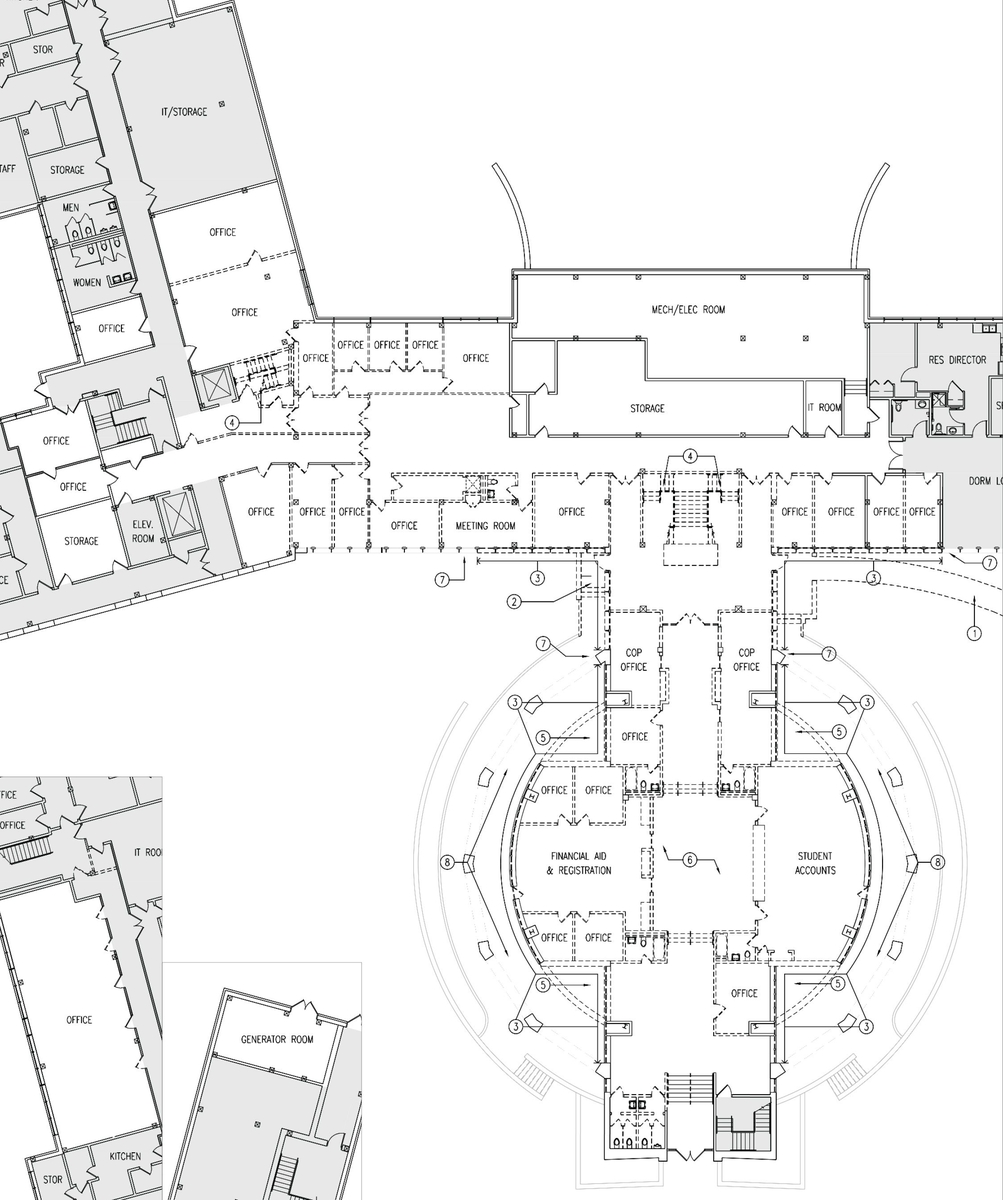
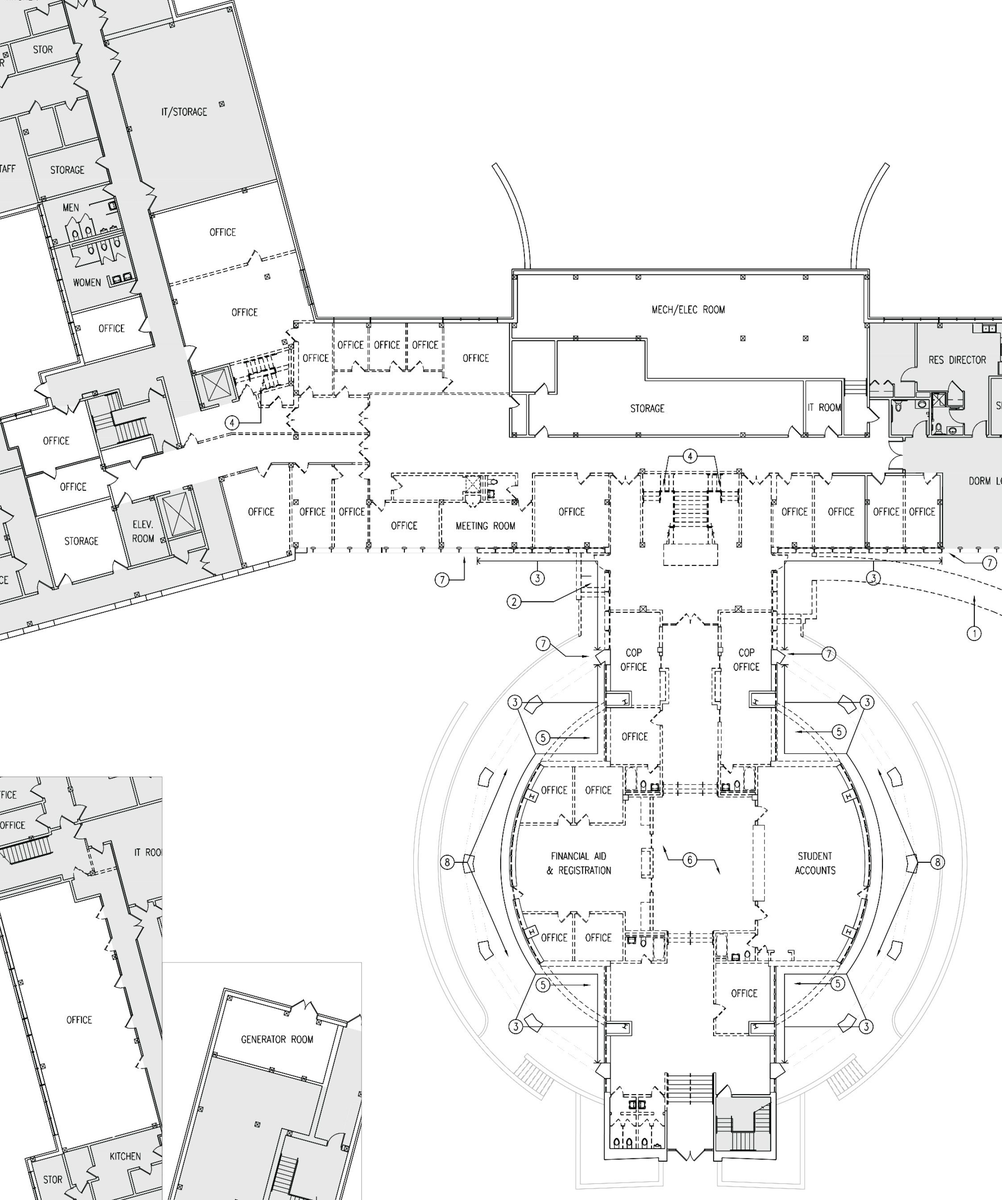
Deering Estate and Ramp & Reel: populate images; Mercy University: three updated drawings.

diff --git a/index.html b/index.html
@@ -369,6 +369,105 @@
                     <p class="slide__desc">[ADD: description of this image]</p>
                   </figcaption>
                 </figure>
+                <figure class="slide">
+                  <div class="slide__media" style="aspect-ratio: 2400 / 1350">
+                    <img class="slide__img" data-src="images/de/web/de-08-gallery-render.jpg" alt="Deering Estate gallery render: visitors among display cases in a timber-framed room with glass walls" width="2400" height="1350" draggable="false">
+                  </div>
+                  <figcaption class="slide__text">
+                    <p class="slide__title">Gallery Render</p>
+                    <p class="slide__desc">[ADD: description of this image]</p>
+                  </figcaption>
+                </figure>
+                <figure class="slide">
+                  <div class="slide__media" style="aspect-ratio: 1800 / 1532">
+                    <img class="slide__img" data-src="images/de/web/de-09-existing-sp.jpg" alt="Deering Estate existing site plan: buildings and paths among trees, with the shoreline and water to the east" width="1800" height="1532" draggable="false">
+                  </div>
+                  <figcaption class="slide__text">
+                    <p class="slide__title">Existing Site Plan</p>
+                    <p class="slide__desc">[ADD: description of this image]</p>
+                  </figcaption>
+                </figure>
+                <figure class="slide">
+                  <div class="slide__media" style="aspect-ratio: 1800 / 1012">
+                    <img class="slide__img" data-src="images/de/web/de-10-exterior-render.jpg" alt="Deering Estate exterior render: low timber buildings around a gravel court shaded by large trees" width="1800" height="1012" draggable="false">
+                  </div>
+                  <figcaption class="slide__text">
+                    <p class="slide__title">Exterior Render</p>
+                    <p class="slide__desc">[ADD: description of this image]</p>
+                  </figcaption>
+                </figure>
+                <figure class="slide">
+                  <div class="slide__media" style="aspect-ratio: 1800 / 1012">
+                    <img class="slide__img" data-src="images/de/web/de-11-exterior-render2.jpg" alt="Deering Estate second exterior render: students crossing the court between the buildings, seen from a porch" width="1800" height="1012" draggable="false">
+                  </div>
+                  <figcaption class="slide__text">
+                    <p class="slide__title">Exterior Render 2</p>
+                    <p class="slide__desc">[ADD: description of this image]</p>
+                  </figcaption>
+                </figure>
+                <figure class="slide">
+                  <div class="slide__media" style="aspect-ratio: 2800 / 1116">
+                    <img class="slide__img" data-src="images/de/web/de-12-gallery-wall-section.jpg" alt="Deering Estate gallery wall section, with a part elevation beside it and the materials labelled" width="2800" height="1116" draggable="false">
+                  </div>
+                  <figcaption class="slide__text">
+                    <p class="slide__title">Gallery Wall Section</p>
+                    <p class="slide__desc">[ADD: description of this image]</p>
+                  </figcaption>
+                </figure>
+                <figure class="slide">
+                  <div class="slide__media" style="aspect-ratio: 2800 / 1313">
+                    <img class="slide__img" data-src="images/de/web/de-13-offices-wall-section.jpg" alt="Deering Estate offices wall section, with a part elevation beside it and the materials labelled" width="2800" height="1313" draggable="false">
+                  </div>
+                  <figcaption class="slide__text">
+                    <p class="slide__title">Offices Wall Section</p>
+                    <p class="slide__desc">[ADD: description of this image]</p>
+                  </figcaption>
+                </figure>
+                <figure class="slide">
+                  <div class="slide__media" style="aspect-ratio: 2800 / 1081">
+                    <img class="slide__img" data-src="images/de/web/de-14-lab-wall-section.jpg" alt="Deering Estate demonstration laboratory wall section, with a part elevation beside it and the materials labelled" width="2800" height="1081" draggable="false">
+                  </div>
+                  <figcaption class="slide__text">
+                    <p class="slide__title">Lab Wall Section</p>
+                    <p class="slide__desc">[ADD: description of this image]</p>
+                  </figcaption>
+                </figure>
+                <figure class="slide">
+                  <div class="slide__media" style="aspect-ratio: 2800 / 1754">
+                    <img class="slide__img" data-src="images/de/web/de-15-floor-plan.jpg" alt="Deering Estate floor plan: the new buildings set among trees beside the existing houses, with a legend" width="2800" height="1754" draggable="false">
+                  </div>
+                  <figcaption class="slide__text">
+                    <p class="slide__title">Floor Plan</p>
+                    <p class="slide__desc">[ADD: description of this image]</p>
+                  </figcaption>
+                </figure>
+                <figure class="slide">
+                  <div class="slide__media" style="aspect-ratio: 2800 / 1875">
+                    <img class="slide__img" data-src="images/de/web/de-16-spaces-diagram.jpg" alt="Deering Estate spaces diagram: the buildings as coloured blocks, with the gathering spaces between them in blue" width="2800" height="1875" draggable="false">
+                  </div>
+                  <figcaption class="slide__text">
+                    <p class="slide__title">Spaces Diagram</p>
+                    <p class="slide__desc">[ADD: description of this image]</p>
+                  </figcaption>
+                </figure>
+                <figure class="slide">
+                  <div class="slide__media" style="aspect-ratio: 2800 / 1868">
+                    <img class="slide__img" data-src="images/de/web/de-17-circulation-diagram.jpg" alt="Deering Estate circulation diagram: the buildings as coloured blocks, with the routes between them in red" width="2800" height="1868" draggable="false">
+                  </div>
+                  <figcaption class="slide__text">
+                    <p class="slide__title">Circulation Diagram</p>
+                    <p class="slide__desc">[ADD: description of this image]</p>
+                  </figcaption>
+                </figure>
+                <figure class="slide">
+                  <div class="slide__media" style="aspect-ratio: 2800 / 1869">
+                    <img class="slide__img" data-src="images/de/web/de-18-program-diagram.jpg" alt="Deering Estate program diagram: each building as a block coloured by its use, with a key" width="2800" height="1869" draggable="false">
+                  </div>
+                  <figcaption class="slide__text">
+                    <p class="slide__title">Program Diagram</p>
+                    <p class="slide__desc">[ADD: description of this image]</p>
+                  </figcaption>
+                </figure>
               </div>
             </div>
           </div>
@@ -385,29 +484,137 @@
             <div class="viewer__inner">
               <div class="viewer__slides" role="group" aria-label="Images of Ramp &amp; Reel Fishing Market" tabindex="0">
                 <figure class="slide">
-                  <div class="slide__media" style="aspect-ratio: 4 / 3">
-                    <div class="slide__img placeholder" role="img" aria-label="Placeholder for an image of Ramp &amp; Reel Fishing Market">[ADD: image of Ramp &amp; Reel Fishing Market]</div>
+                  <div class="slide__media" style="aspect-ratio: 2757 / 2782">
+                    <img class="slide__img" data-src="images/rr/web/rr-01-vender-diagram.jpg" alt="Ramp and Reel vendor diagram: six steps showing a long slab divided, cut and fitted with stalls" width="2757" height="2782" draggable="false">
                   </div>
                   <figcaption class="slide__text">
-                    <p class="slide__title">[ADD: title]</p>
+                    <p class="slide__title">Vendor Diagram</p>
                     <p class="slide__desc">[ADD: description of this image]</p>
                   </figcaption>
                 </figure>
                 <figure class="slide">
-                  <div class="slide__media" style="aspect-ratio: 4 / 3">
-                    <div class="slide__img placeholder" role="img" aria-label="Placeholder for an image of Ramp &amp; Reel Fishing Market">[ADD: image of Ramp &amp; Reel Fishing Market]</div>
+                  <div class="slide__media" style="aspect-ratio: 2400 / 1445">
+                    <img class="slide__img" data-src="images/rr/web/rr-02-roof-render.jpg" alt="Ramp and Reel roof render: a planted roof garden with a winding path at sunset, the city behind" width="2400" height="1445" draggable="false">
                   </div>
                   <figcaption class="slide__text">
-                    <p class="slide__title">[ADD: title]</p>
+                    <p class="slide__title">Roof Render</p>
                     <p class="slide__desc">[ADD: description of this image]</p>
                   </figcaption>
                 </figure>
                 <figure class="slide">
-                  <div class="slide__media" style="aspect-ratio: 4 / 3">
-                    <div class="slide__img placeholder" role="img" aria-label="Placeholder for an image of Ramp &amp; Reel Fishing Market">[ADD: image of Ramp &amp; Reel Fishing Market]</div>
+                  <div class="slide__media" style="aspect-ratio: 2800 / 918">
+                    <img class="slide__img" data-src="images/rr/web/rr-03-longitudinal-section.jpg" alt="Ramp and Reel longitudinal section: the long, low market on the river with the city skyline drawn behind" width="2800" height="918" draggable="false">
                   </div>
                   <figcaption class="slide__text">
-                    <p class="slide__title">[ADD: title]</p>
+                    <p class="slide__title">Longitudinal Section</p>
+                    <p class="slide__desc">[ADD: description of this image]</p>
+                  </figcaption>
+                </figure>
+                <figure class="slide">
+                  <div class="slide__media" style="aspect-ratio: 2800 / 1729">
+                    <img class="slide__img" data-src="images/rr/web/rr-04-cross-section.jpg" alt="Ramp and Reel cross section: the market at the edge of the river, with a planted roof above and the water beside it" width="2800" height="1729" draggable="false">
+                  </div>
+                  <figcaption class="slide__text">
+                    <p class="slide__title">Cross Section</p>
+                    <p class="slide__desc">[ADD: description of this image]</p>
+                  </figcaption>
+                </figure>
+                <figure class="slide">
+                  <div class="slide__media" style="aspect-ratio: 2800 / 915">
+                    <img class="slide__img" data-src="images/rr/web/rr-05-east-elevation.jpg" alt="Ramp and Reel east elevation: the market along the river with the city skyline drawn behind" width="2800" height="915" draggable="false">
+                  </div>
+                  <figcaption class="slide__text">
+                    <p class="slide__title">East Elevation</p>
+                    <p class="slide__desc">[ADD: description of this image]</p>
+                  </figcaption>
+                </figure>
+                <figure class="slide">
+                  <div class="slide__media" style="aspect-ratio: 2800 / 1547">
+                    <img class="slide__img" data-src="images/rr/web/rr-06-first-floor-plan.jpg" alt="Ramp and Reel first floor plan, on the Miami River beside NW North River Drive" width="2800" height="1547" draggable="false">
+                  </div>
+                  <figcaption class="slide__text">
+                    <p class="slide__title">First Floor Plan</p>
+                    <p class="slide__desc">[ADD: description of this image]</p>
+                  </figcaption>
+                </figure>
+                <figure class="slide">
+                  <div class="slide__media" style="aspect-ratio: 2800 / 1548">
+                    <img class="slide__img" data-src="images/rr/web/rr-07-second-floor-plan.jpg" alt="Ramp and Reel second floor plan, on the Miami River beside NW North River Drive" width="2800" height="1548" draggable="false">
+                  </div>
+                  <figcaption class="slide__text">
+                    <p class="slide__title">Second Floor Plan</p>
+                    <p class="slide__desc">[ADD: description of this image]</p>
+                  </figcaption>
+                </figure>
+                <figure class="slide">
+                  <div class="slide__media" style="aspect-ratio: 2800 / 1547">
+                    <img class="slide__img" data-src="images/rr/web/rr-08-third-floor-plan.jpg" alt="Ramp and Reel third floor plan, on the Miami River beside NW North River Drive" width="2800" height="1547" draggable="false">
+                  </div>
+                  <figcaption class="slide__text">
+                    <p class="slide__title">Third Floor Plan</p>
+                    <p class="slide__desc">[ADD: description of this image]</p>
+                  </figcaption>
+                </figure>
+                <figure class="slide">
+                  <div class="slide__media" style="aspect-ratio: 2000 / 1119">
+                    <img class="slide__img" data-src="images/rr/web/rr-09-vender-render.jpg" alt="Ramp and Reel vendor render: timber market stalls and climbing plants under the roof" width="2000" height="1119" draggable="false">
+                  </div>
+                  <figcaption class="slide__text">
+                    <p class="slide__title">Vendor Render</p>
+                    <p class="slide__desc">[ADD: description of this image]</p>
+                  </figcaption>
+                </figure>
+                <figure class="slide">
+                  <div class="slide__media" style="aspect-ratio: 2622 / 1108">
+                    <img class="slide__img" data-src="images/rr/web/rr-10-p-section-collage.jpg" alt="Ramp and Reel section perspective collage: a line drawing looking down the length of the market, between a park and the water" width="2622" height="1108" draggable="false">
+                  </div>
+                  <figcaption class="slide__text">
+                    <p class="slide__title">Section Perspective Collage</p>
+                    <p class="slide__desc">[ADD: description of this image]</p>
+                  </figcaption>
+                </figure>
+                <figure class="slide">
+                  <div class="slide__media" style="aspect-ratio: 2688 / 1808">
+                    <img class="slide__img" data-src="images/rr/web/rr-11-exterior-render.jpg" alt="Ramp and Reel exterior render: the market and its ramp seen from a boat on the river" width="2688" height="1808" draggable="false">
+                  </div>
+                  <figcaption class="slide__text">
+                    <p class="slide__title">Exterior Render</p>
+                    <p class="slide__desc">[ADD: description of this image]</p>
+                  </figcaption>
+                </figure>
+                <figure class="slide">
+                  <div class="slide__media" style="aspect-ratio: 2077 / 1735">
+                    <img class="slide__img" data-src="images/rr/web/rr-12-transect.jpg" alt="Ramp and Reel transect: a cut-away showing the public park, the green roof and the Miami River" width="2077" height="1735" draggable="false">
+                  </div>
+                  <figcaption class="slide__text">
+                    <p class="slide__title">Transect</p>
+                    <p class="slide__desc">[ADD: description of this image]</p>
+                  </figcaption>
+                </figure>
+                <figure class="slide">
+                  <div class="slide__media" style="aspect-ratio: 2800 / 1701">
+                    <img class="slide__img" data-src="images/rr/web/rr-13-building-diagram.jpg" alt="Ramp and Reel building diagram: four steps showing the long sloping form being shaped" width="2800" height="1701" draggable="false">
+                  </div>
+                  <figcaption class="slide__text">
+                    <p class="slide__title">Building Diagram</p>
+                    <p class="slide__desc">[ADD: description of this image]</p>
+                  </figcaption>
+                </figure>
+                <figure class="slide">
+                  <div class="slide__media" style="aspect-ratio: 1600 / 1200">
+                    <img class="slide__img" data-src="images/rr/web/rr-14-existing-site.jpg" alt="The existing site from the air: the Miami River, a drawbridge and boats" width="1600" height="1200" draggable="false">
+                  </div>
+                  <figcaption class="slide__text">
+                    <p class="slide__title">Existing Site</p>
+                    <p class="slide__desc">[ADD: description of this image]</p>
+                  </figcaption>
+                </figure>
+                <figure class="slide">
+                  <div class="slide__media" style="aspect-ratio: 1600 / 1200">
+                    <img class="slide__img" data-src="images/rr/web/rr-15-existing-site2.jpg" alt="The existing site from the air: fishing boats tied up at a working dock" width="1600" height="1200" draggable="false">
+                  </div>
+                  <figcaption class="slide__text">
+                    <p class="slide__title">Existing Site 2</p>
                     <p class="slide__desc">[ADD: description of this image]</p>
                   </figcaption>
                 </figure>
@@ -454,8 +661,8 @@
                 <div class="slide">
                   <p class="slide__note"><span class="slide__note-label">Impact:</span> Worked with Design Team to decide what needed demolition, traced the whole ground floor plan from existing X-Ref, added annotations, room names, created page layout</p>
                   <figure class="slide__body">
-                  <div class="slide__media" style="aspect-ratio: 2247 / 2687">
-                    <img class="slide__img" data-src="images/mercy/web/mercy-04-enlarged-demo-plan.jpg" alt="Mercy University enlarged ground floor demolition plan: the round central building and the rooms around it, with walls to be removed drawn dashed and numbered notes" width="2247" height="2687" draggable="false">
+                  <div class="slide__media" style="aspect-ratio: 2245 / 2687">
+                    <img class="slide__img" data-src="images/mercy/web/mercy-04-enlarged-demo-plan.jpg" alt="Mercy University enlarged ground floor demolition plan: the round central building and the rooms around it, with walls to be removed drawn dashed and numbered notes" width="2245" height="2687" draggable="false">
                   </div>
                   <figcaption class="slide__text">
                     <p class="slide__title">Enlarged Ground Floor Demo Plan</p>
@@ -476,8 +683,8 @@
                 <div class="slide">
                   <p class="slide__note"><span class="slide__note-label">Impact:</span> [ADD: what Henri did on this drawing]</p>
                   <figure class="slide__body">
-                  <div class="slide__media" style="aspect-ratio: 2272 / 2618">
-                    <img class="slide__img" data-src="images/mercy/web/mercy-06-enlarged-proposed-first-floor.jpg" alt="Mercy University enlarged proposed first floor plan: the rooms between the wings and the round building" width="2272" height="2618" draggable="false">
+                  <div class="slide__media" style="aspect-ratio: 2269 / 2618">
+                    <img class="slide__img" data-src="images/mercy/web/mercy-06-enlarged-proposed-first-floor.jpg" alt="Mercy University enlarged proposed first floor plan: the rooms between the wings and the round building" width="2269" height="2618" draggable="false">
                   </div>
                   <figcaption class="slide__text">
                     <p class="slide__title">Enlarged Proposed First Floor Plan</p>
@@ -498,8 +705,8 @@
                 <div class="slide">
                   <p class="slide__note"><span class="slide__note-label">Impact:</span> [ADD: what Henri did on this drawing]</p>
                   <figure class="slide__body">
-                  <div class="slide__media" style="aspect-ratio: 2274 / 2715">
-                    <img class="slide__img" data-src="images/mercy/web/mercy-08-enlarged-second-floor-rcp.jpg" alt="Mercy University enlarged second floor reflected ceiling plan" width="2274" height="2715" draggable="false">
+                  <div class="slide__media" style="aspect-ratio: 2269 / 2710">
+                    <img class="slide__img" data-src="images/mercy/web/mercy-08-enlarged-second-floor-rcp.jpg" alt="Mercy University enlarged second floor reflected ceiling plan" width="2269" height="2710" draggable="false">
                   </div>
                   <figcaption class="slide__text">
                     <p class="slide__title">Enlarged Second Floor RCP</p>

diff --git a/SPEC.md b/SPEC.md
@@ -38,6 +38,7 @@ index.html (home)
   - In every project, photos of physical models come last in the strip, after all the drawings and renders. They keep their order among themselves, and every other image keeps its order.
   - R+EC images, in order: First Floor Plan (rec-16-floor-plan), Second Floor Plan (rec-19-seconf-floor-plan), Enlarged Gym Section (rec-17-enlarged-gym-section, which replaces the earlier enlarged section), Gym Wall Detail (rec-15-gym-wall-detail, which replaces the earlier long wall section), Building/Walkway Wall Detail (rec-18-building-wall-detail), then one click-through image holding Program Diagram (rec-20-program-diagram-jpg) and Active/Passive Diagram (rec-21-active-passive-diagram-jpg), lined up so the drawing and the bottom square of the key sit in the same place in both, then one click-through image holding the three mechanical plans, each titled Mechanical Plans (rec-22-mep1, rec-23-mep2, rec-24-mep3), then Mechanical RCP Gym (rec-25-mechanical-rcp-gym) on its own, then one click-through image holding the two water management drawings, both titled Water Management (rec-26-water-management, rec-27-water-management2), then the three pairs (north and south elevations, east and west elevations, long and short sections, titled "Longitudinal Section" and "Cross Section"), then the model photos: site model, site model 2, section model 1, 2 and 3. R+EC has all six drawings. No other project has elevations or sections yet.
   - R+EC titles and descriptions, in Henri's words: First Floor Plan: "Central skatepark linked by circulation spine"; Second Floor Plan: "Gym linked by covered walkway"; Enlarged Gym Section: "Double-height gym with clerestory light"; Gym Wall Detail: "Layered assembly"; Building/Walkway Wall Detail: "Covered spine opening into classrooms"; Mechanical Plans: "First Floor", "Second Floor", "Third Floor" (rec-22, 23, 24 in that order); Mechanical RCP Gym: "Supply, return, and lighting layout"; North Elevation: "Planters and palms line the street"; South Elevation: "Vertical aluminum fins shade the gym"; East Elevation: "Arrival through a planted courtyard"; West Elevation: "Quiet service side along alley"; Longitudinal Section: "Section revealing the indoor skatepark"; Cross Section: "Courtyard built around existing tree". Program Diagram, Active/Passive Diagram and the two Water Management drawings have a title only, with no description text box. The descriptions of Gym Wall Detail and Building/Walkway Wall Detail sit on the same line as their titles.
+  - Ramp & Reel Fishing Market images, in the order of Henri's file numbers, titles taken from his file names: Vendor Diagram (rr-01), Roof Render (rr-02), Longitudinal Section (rr-03), Cross Section (rr-04), East Elevation (rr-05), First Floor Plan (rr-06), Second Floor Plan (rr-07), Third Floor Plan (rr-08), Vendor Render (rr-09), Section Perspective Collage (rr-10-p-section-collage), Exterior Render (rr-11), Transect (rr-12), Building Diagram (rr-13), Existing Site (rr-14), Existing Site 2 (rr-15). Its sections and elevation are squarer than long panels, so they are ordinary images, not stacked pairs. [ADD: which image is the icon; a description for each image, from Henri]
   - Mercy University's icon on the home page is mercy-01-icon-image (images/icons/mercy.jpg). Its images, in order: (1) mercy-02-render, titled "Exterior Render", description "Material expression and human scale", with an impact note above the image at its top left: "Impact: Created SketchUp model, added materiality, worked on render". (2) mercy-03-big-demo-plan, titled "Ground Floor Demo Plan", description "Selective interior demolition for renovation", no impact note. (3) mercy-04-enlarged-demo-plan, titled "Enlarged Ground Floor Demo Plan", no description, with the impact note "Impact: Worked with Design Team to decide what needed demolition, traced the whole ground floor plan from existing X-Ref, added annotations, room names, created page layout"; this note is long, so it wraps within the image's width. (4) mercy-05-big-proposed-first-floor, "Proposed First Floor Plan", description "Reconfigured layout across all wings", and (5) mercy-06-enlarged-proposed-first-floor, "Enlarged Proposed First Floor Plan"; (6) mercy-07-big-second-floor-rcp, "Second Floor RCP", description "Ceiling grid and fixture layout", and (7) mercy-08-enlarged-second-floor-rcp, "Enlarged Second Floor RCP". These four follow the format of the two demo plans: the whole-floor drawing has a title and a description, the enlarged drawing has a title and an impact note above it. Their titles are taken from Henri's file names. The two descriptions are in Henri's words. [ADD: an impact note for images 5 and 7, from Henri] The titles, descriptions and impact notes of images 1 to 3 are in Henri's words.
 - Home page descriptions, in Henri's words:
   - R+EC: "A youth recreation and learning center in North Miami Beach made up of a skate park and gym, an entrepreneurship building, and a public commercial building. A timber circulation spine links the three, while vertical fins and deep overhangs work with active cooling to cut energy use."
@@ -134,7 +135,7 @@ Never invent facts, dimensions, dates or names that Henri has not given. Ask him
 ## Images
 - Henri's files go in a folder called images. Project icons go in images/icons as SVG, one per project page (six in total, one shared icon for Built Work).
 - Deering Estate: Henri's original files are in images/de. The site shows web-sized JPEG copies from images/de/web (longest side 2800px, each under 500 KB). Its icon on the home page is a web-sized copy of the section perspective render (now de-07-p-section.jpg), saved as images/icons/deering.jpg. The originals are not used by any page.
-- Deering Estate images, in order: south elevation above gallery elevation; long section above long section 2; transect; passive diagram. The render is the icon and is not repeated in the strip. Titles are taken from Henri's file names. [ADD: a description for each image, from Henri]
+- Deering Estate images, in order: south elevation above gallery elevation; long section above long section 2; transect; passive diagram; then Gallery Render (de-08), Existing Site Plan (de-09-existing-sp), Exterior Render (de-10), Exterior Render 2 (de-11), Gallery Wall Section (de-12), Offices Wall Section (de-13), Lab Wall Section (de-14), Floor Plan (de-15), Spaces Diagram (de-16), Circulation Diagram (de-17), Program Diagram (de-18). The render is the icon and is not repeated in the strip. Titles are taken from Henri's file names. [ADD: a description for each image, from Henri]
 - R+EC: Henri's original PNG files are in images/rec. The site shows web-sized JPEG copies from images/rec/web (longest side 2800px, each under 500 KB). The originals are not used by any page.
 - Where there is no image yet, use a plain grey box labelled [ADD: image of ...].
 - Every image has alt text describing what it shows.

diff --git a/DESIGN.md b/DESIGN.md
@@ -62,7 +62,7 @@ The home page works like a small browser for the work. From top to bottom:
   - A project with no description yet shows its name only.
 - Clicking a project opens it in place. Its icon stays at the left, its name and description stay on show, and a viewer opens beneath them across all twelve grid columns, pushing the projects below it down.
   - The viewer is one continuous strip: the images sit side by side, all at the same height (a little over half the screen height), each at its own proportions and never cropped, one gutter apart.
-  - Elevations and sections are the exception to the shared height. They are never long panels. Each is scaled down, whole and at its own proportions, to the full visible width of the strip, and they are stacked in pairs, one above the other: elevations with elevations and sections with sections. Where a project has them, the pairs are North Elevation above South Elevation; East Elevation above West Elevation; Long Section above Short Section. Otherwise two elevations, or two sections, pair in the order of Henri's file numbers. Each pair takes one screen-width of the strip. The two drawings in a pair are 16px apart (measured from the first drawing's caption to the second drawing); pairs are 40px apart on desktop and 32px on phone, slightly more than the gutter between other images. If a project has only one drawing of a pair, it sits alone at the same full width.
+  - Elevations and sections are the exception to the shared height. They are never long panels. Each is scaled down, whole and at its own proportions, to the full visible width of the strip, and they are stacked in pairs, one above the other: elevations with elevations and sections with sections. Where a project has them, the pairs are North Elevation above South Elevation; East Elevation above West Elevation; Long Section above Short Section. Otherwise two elevations, or two sections, pair in the order of Henri's file numbers. Each pair takes one screen-width of the strip. Pairing is for long, low drawings (four or more times as wide as they are tall). An elevation or section that is squarer than that would fill the whole screen if scaled to the strip's width, so it is shown as an ordinary image at the shared height instead. The two drawings in a pair are 16px apart (measured from the first drawing's caption to the second drawing); pairs are 40px apart on desktop and 32px on phone, slightly more than the gutter between other images. If a project has only one drawing of a pair, it sits alone at the same full width.
   - Order within the strip: drawings and renders first, photos of physical models last. A model photo has its title under it and no description text box.
   - The strip scrolls sideways seamlessly. It never stops or snaps on an image. Swipe on touch screens; with a mouse, drag the strip or use the left and right arrow keys, which move it along by most of a screen. The page itself still never scrolls sideways.
   - Under each image, 8px beneath it: the image's title on the left (15px, weight 500, Ink; every word of a title starts with a capital letter, for example "Long Wall Section") and, on the opposite side, a text box with its description (15px, Graphite, line height 1.55, no wider than about 480px). No border. The caption is exactly as wide as its image, never wider: the title starts at the image's left edge and the description is set flush right, ending at the image's right edge. The description sits on the same line as the title whenever the two fit side by side within the image's width; only when they don't fit does it drop below the title, still flush right. Under an image wider than the screen (possible on phones), the caption is as wide as the screen and stays in view while the image is panned.
